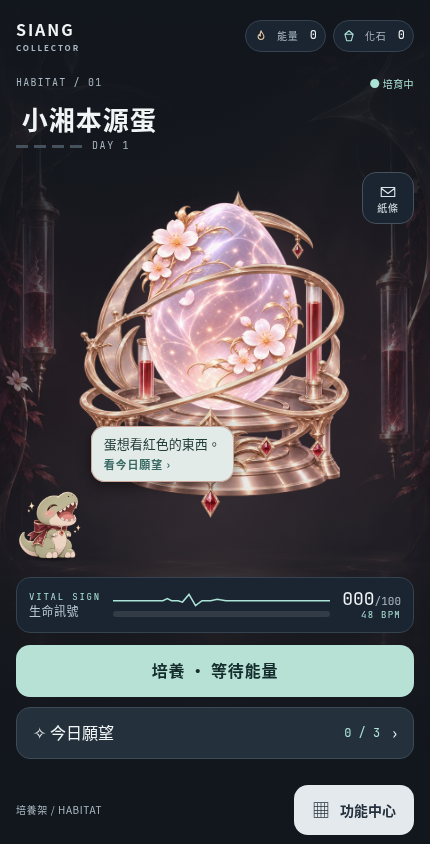
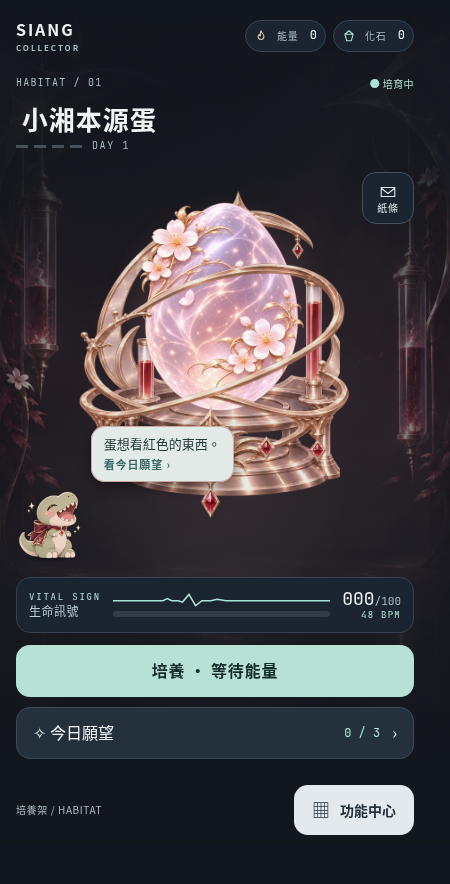
Keep short-screen habitat scrollable and verify footer clearance

diff --git a/css/mobile.css b/css/mobile.css
@@ -119,3 +119,4 @@ button:active, .mission-shoot:active { transform: scale(.97); }
 /* Keep the art container measurable even when browser chrome reduces height. */
 .view--home { flex: 1 0 auto; }
 .stage { flex: none; height: clamp(265px, 40svh, 380px); }
+body[data-view="home"] .app { height: auto; min-height: 100svh; overflow: visible; }
